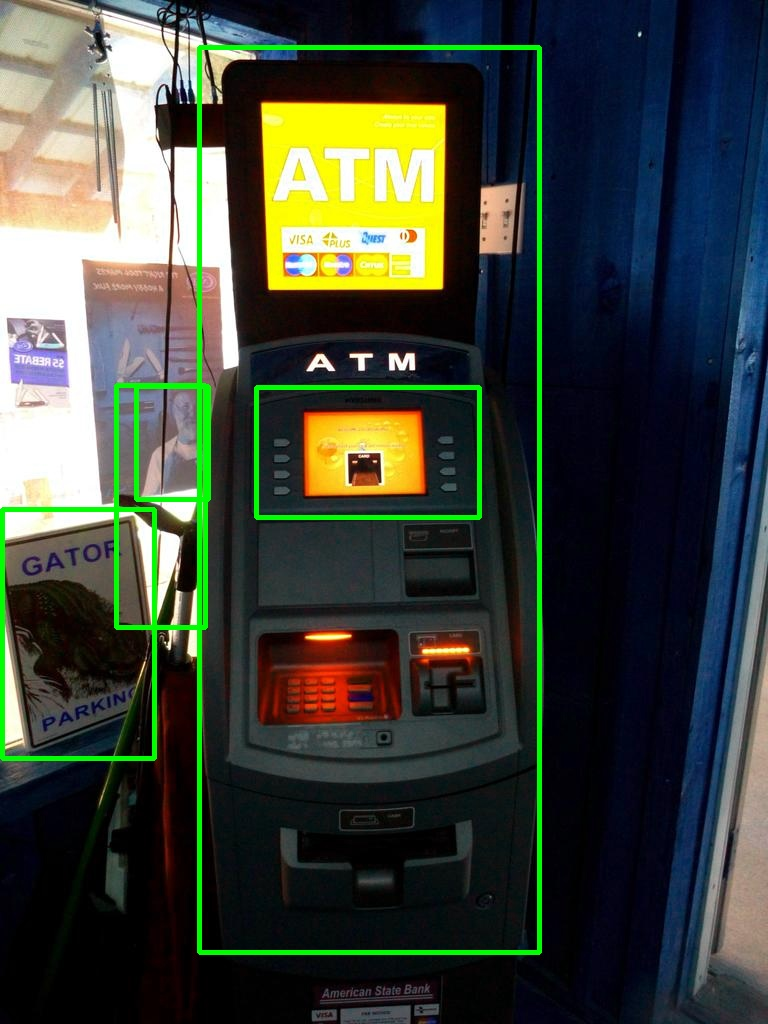
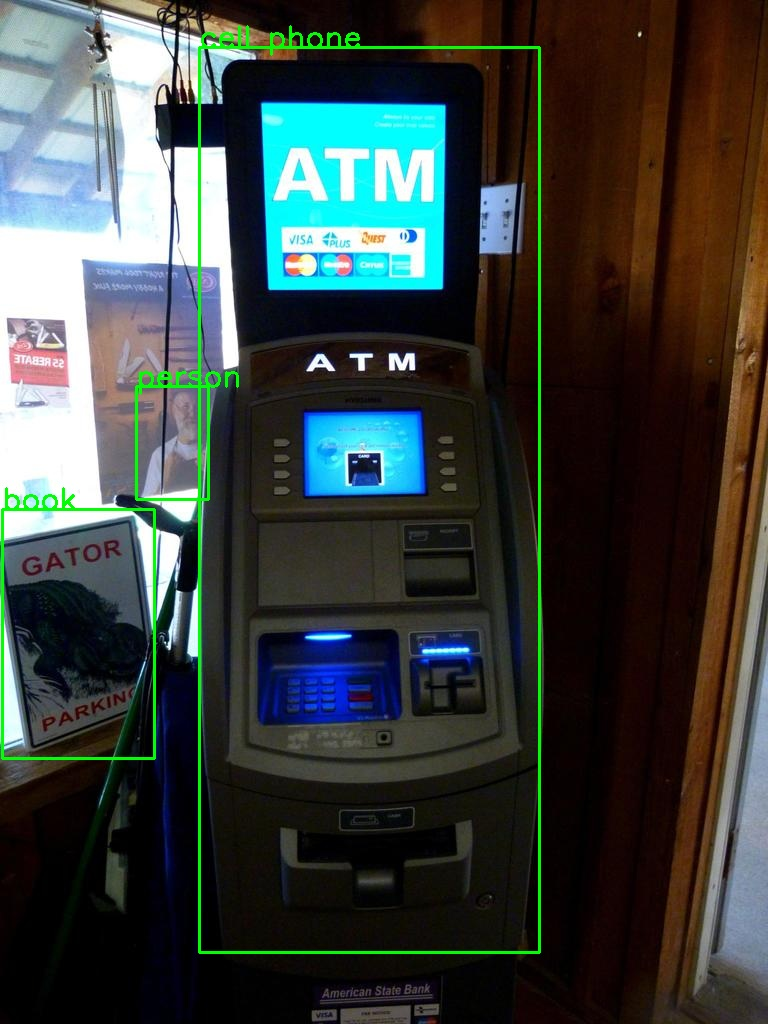
Basic changes to object detection and get_path method added in customDataset

diff --git a/modules/object-detection.py b/modules/object-detection.py
@@ -1,30 +1,23 @@
-import sys, os ,cv2, matplotlib.pyplot as plt
+import sys, os ,cv2, random, matplotlib.pyplot as plt
 import torchvision, torchvision.transforms as T, torch.nn as nn
 from tqdm import tqdm
 from PIL import Image
-from utils.customLoader import CustomDataset
+from utils.customDatasets import CustomDataset
 
 class ObjectDetector(nn.Module):
-    def __init__(self, threshold=0.5, rect_th=3, text_size=3, text_th=3):
+    def __init__(self, type = 'fasterrcnn', labels_path = 'modules/labels.txt', num_classes = 91):
         super().__init__()
-        self.threshold = threshold
-        self.rect_th = rect_th
-        self.text_size = text_size
-        self.text_th = text_th
-        self.model = torchvision.models.detection.fasterrcnn_resnet50_fpn(pretrained = True)
+        self.type = type
+        self.model = torchvision.models.detection.fasterrcnn_resnet50_fpn(pretrained = True, num_classes = num_classes)
+        if self.type == 'maskrcnn': 
+            self.model = torchvision.models.detection.maskrcnn_resnet50_fpn(pretrained = True, num_classes = num_classes)
         self.model.eval()
-        self.classes = ['__background__', 'person', 'bicycle', 'car', 'motorcycle', 'airplane', 'bus',
-                        'train', 'truck', 'boat', 'traffic light', 'fire hydrant', 'N/A', 'stop sign',
-                        'parking meter', 'bench', 'bird', 'cat', 'dog', 'horse', 'sheep', 'cow',
-                        'elephant', 'bear', 'zebra', 'giraffe', 'N/A', 'backpack', 'umbrella', 'N/A', 'N/A',
-                        'handbag', 'tie', 'suitcase', 'frisbee', 'skis', 'snowboard', 'sports ball',
-                        'kite', 'baseball bat', 'baseball glove', 'skateboard', 'surfboard', 'tennis racket',
-                        'bottle', 'N/A', 'wine glass', 'cup', 'fork', 'knife', 'spoon', 'bowl',
-                        'banana', 'apple', 'sandwich', 'orange', 'broccoli', 'carrot', 'hot dog', 'pizza',
-                        'donut', 'cake', 'chair', 'couch', 'potted plant', 'bed', 'N/A', 'dining table',
-                        'N/A', 'N/A', 'toilet', 'N/A', 'tv', 'laptop', 'mouse', 'remote', 'keyboard', 'cell phone',
-                        'microwave', 'oven', 'toaster', 'sink', 'refrigerator', 'N/A', 'book',
-                        'clock', 'vase', 'scissors', 'teddy bear', 'hair drier', 'toothbrush']
+        def get_classes(num_classes, file):
+            lab_file, lab_list = open(file), []
+            for label in lab_file.read().splitlines():
+                lab_list.append(label.rsplit(": ")[1])
+            return lab_list[:num_classes]
+        self.classes = get_classes(num_classes, labels_path)
 
     def forward(self, image_path, threshold):
         img = Image.open(image_path)
@@ -34,12 +27,14 @@ class ObjectDetector(nn.Module):
         pred_class = [self.classes[i] for i in list(pred[0]['labels'].numpy())]
         pred_boxes = [[(i[0], i[1]), (i[2], i[3])] for i in list(pred[0]['boxes'].detach().numpy())] 
         pred_score = list(pred[0]['scores'].detach().numpy())
+        if self.type == 'maskrcnn':
+            print(pred[0]['masks'].detach().numpy().shape)
         pred_t = [pred_score.index(x) for x in pred_score if x > threshold][-1] 
         pred_boxes = pred_boxes[:pred_t+1]
         pred_class = pred_class[:pred_t+1]
         return pred_boxes, pred_class
 
-    def display_objects(self, image_path, boxes, class_label, show_label = True, threshold = 0.5, rect_th = 3, text_size = 3, text_th = 3):
+    def display_objects(self, image_path, boxes, class_label, show_label = True, threshold = 0.5, rect_th = 2, text_size = 1, text_th = 2):
         image = cv2.imread(image_path)
         image = cv2.cvtColor(image, cv2.COLOR_BGR2RGB)
         for i in range(len(boxes)):
@@ -52,7 +47,7 @@ class ObjectDetector(nn.Module):
         plt.yticks([])
         plt.show()
     
-    def save_boxed_image(self, image_path, save_path, boxes, class_label, show_label = True, threshold = 0.5, rect_th = 3, text_size = 3, text_th = 3):
+    def save_boxed_image(self, image_path, save_path, boxes, class_label, show_label = True, threshold = 0.5, rect_th = 2, text_size = 1, text_th = 2):
         image = cv2.imread(image_path)
         image = cv2.cvtColor(image, cv2.COLOR_BGR2RGB)
         for i in range(len(boxes)):
@@ -63,22 +58,18 @@ class ObjectDetector(nn.Module):
         print("Image saved as {}".format(str(os.path.join(save_path, image_path.rsplit('/')[-1]))))
 
 if __name__ == '__main__':
-
     data_path = '/home/amanshenoy/Text_VQA/Data'
     ID_path = os.path.join(data_path, "test/test_ids.txt")
     json_path = os.path.join(data_path, "test/cleaned.json")
     dataloader = CustomDataset(data_path, ID_path, json_path, (448, 448), set_="test")
+
     # get_path method has been described below, add method to CustomDataset
-    inference_example = dataloader.get_path(12)
-    """
-    def get_path(self, index):
-        ID = self.list_IDs[index]
-		return str(os.path.join(self.data_path, self.set_+"/" + self.set_ + "_images/"+ID+".jpg"))
-    """
-    object_detector = ObjectDetector()
+    inference_example = dataloader.get_path(random.randint(0, 2048)) # Any image path to infer model on
+    object_detector = ObjectDetector(type = 'fasterrcnn')
+
     # threshold (0.4) is the confidence value above which to consider a box relevant ; boxes and class_label are as expected
     boxes, class_label = object_detector(inference_example, 0.5)
     object_detector.display_objects(inference_example, boxes, class_label, show_label = True)
     save_dir = 'inference_examples'
     os.makedirs(save_dir, exist_ok = True)
-    object_detector.save_boxed_image(inference_example, save_dir, boxes, class_label, show_label = False)
+    object_detector.save_boxed_image(inference_example, save_dir, boxes, class_label, show_label = True)

diff --git a/utils/customDatasets.py b/utils/customDatasets.py
@@ -40,6 +40,10 @@ class CustomDataset(data.Dataset):
 	def __len__(self):
 		'Denotes the total number of samples'
 		return len(self.list_IDs)
+	
+	def get_path(self, index):
+		ID = self.list_IDs[index]
+		return str(os.path.join(self.data_path, self.set_+"/" + self.set_ + "_images/"+ID+".jpg"))
 
 	def __getitem__(self, index):
 		'Generates one sample of data'

diff --git a/modules/clutter.py b/modules/clutter.py
@@ -1,0 +1,6 @@
+file = open("modules/labels.txt")
+labels_list = []
+num_labels = 182
+for label in file.read().splitlines():  
+    labels_list.append(label.rsplit(": ")[1])
+print(labels_list)
